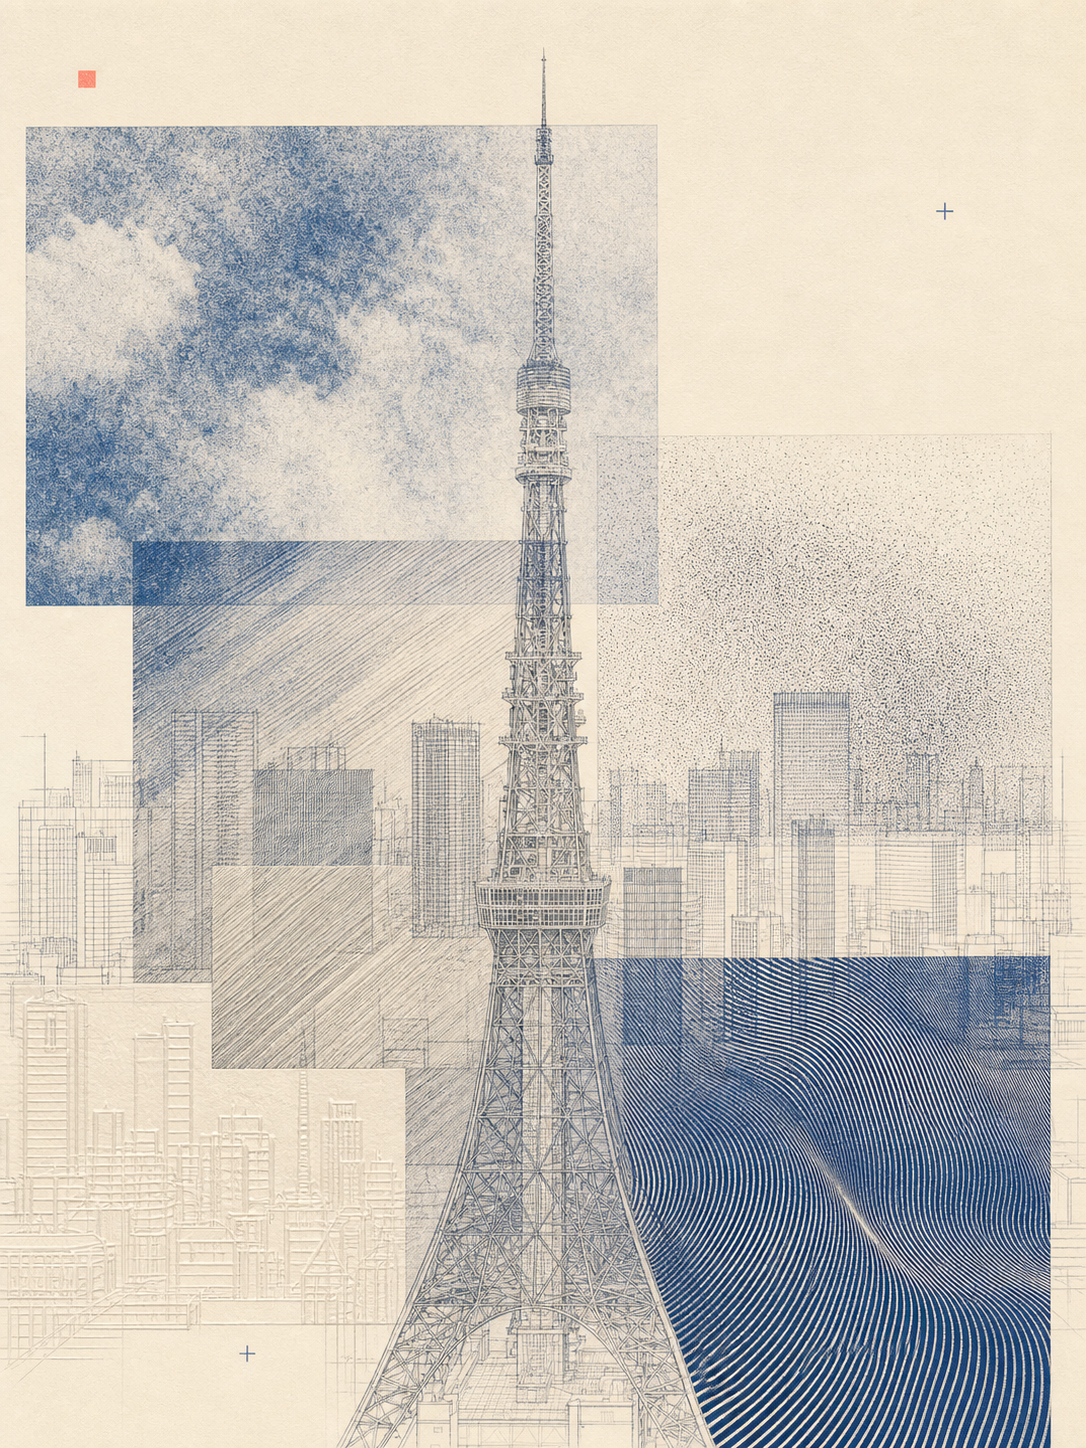
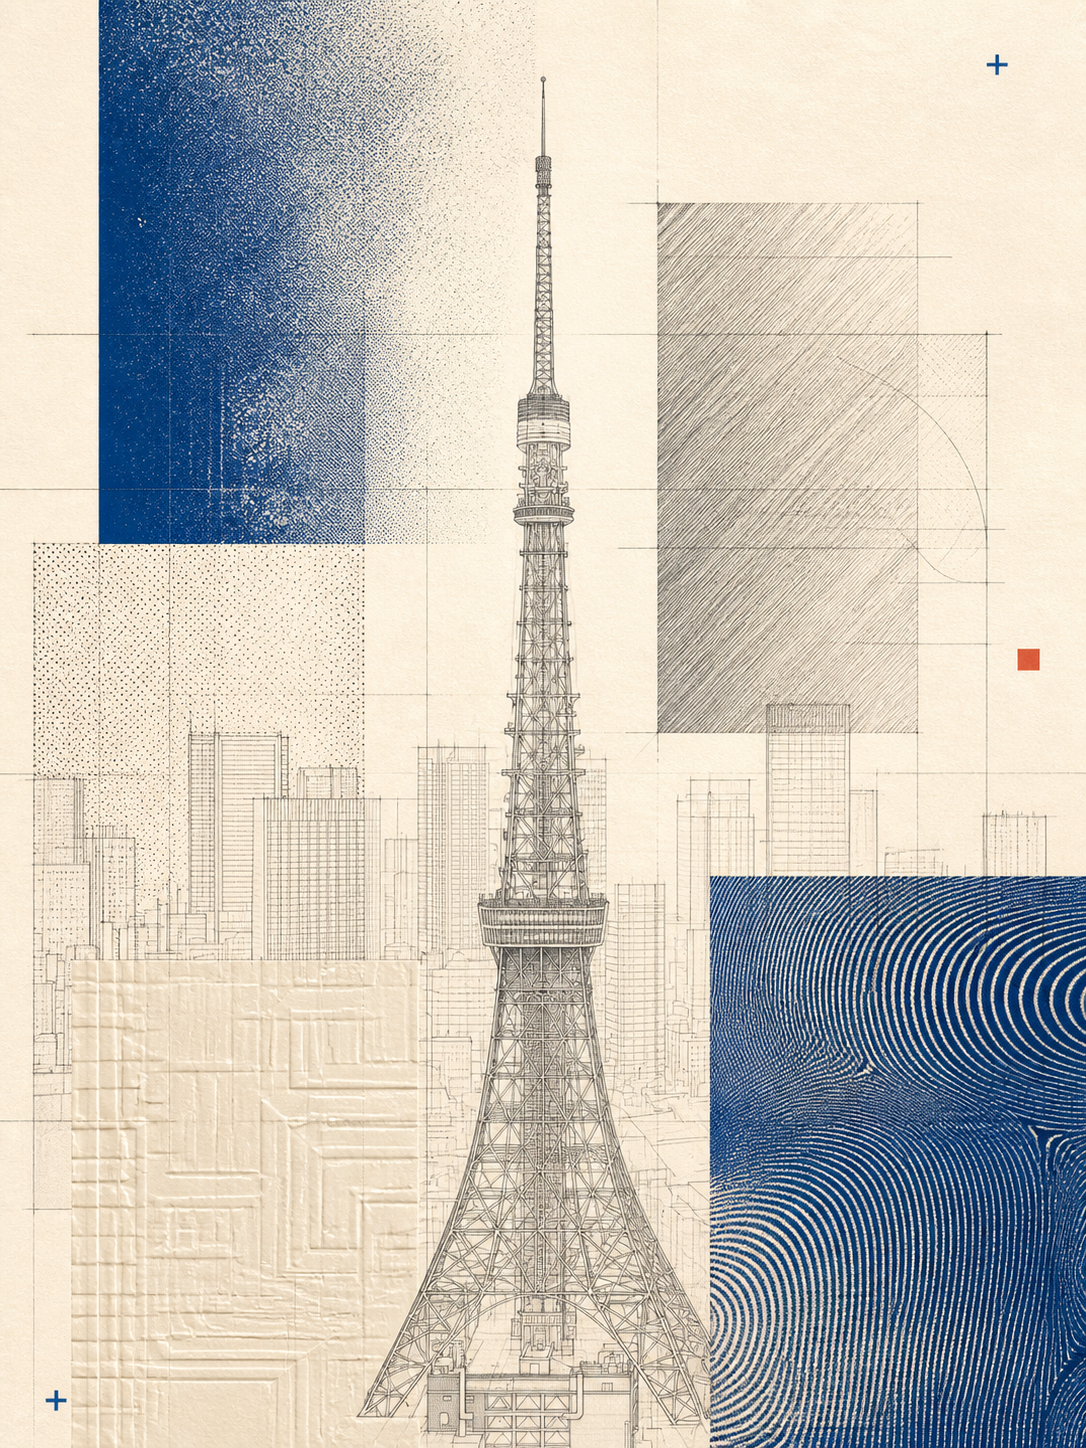
feat: refresh constrained full reference set

diff --git a/references/style-catalog.html b/references/style-catalog.html
@@ -21,7 +21,7 @@
   <header><h1>OPTICAL<br>ZINE STYLES</h1><p>参考库分成两类：上图下设计的 1:1 分屏，以及东京铁塔全图。点击任一卡片可打开完整 3:4 参考图；参考图只供浏览，不参与生图输入。</p></header>
   <nav><a href="#split-1x1">1:1 分屏</a><a href="#tokyo-tower-full">东京铁塔 · 全图</a></nav>
   <section class="collection split" id="split-1x1"><div class="collection-head"><div><p class="eyebrow">Collection A · split 1:1</p><h2>上图摄影 / 下图设计</h2></div><p class="intro">用于明确要求上下 1:1 的变体。卡片缩略图聚焦下半设计区，点击后查看完整分屏。</p></div><div class="grid" data-gallery="split"></div></section>
-  <section class="collection full" id="tokyo-tower-full"><div class="collection-head"><div><p class="eyebrow">Collection B · Tokyo Tower full design</p><h2>东京铁塔 / 全图设计</h2></div><p class="intro">S01–S11 全部以同一张东京铁塔原图为语义与结构源，整页完成设计转译，不保留摄影窗口，也不使用上下分屏。</p></div><div class="grid" data-gallery="full"></div></section>
+  <section class="collection full" id="tokyo-tower-full"><div class="collection-head"><div><p class="eyebrow">Collection B · Tokyo Tower full design</p><h2>东京铁塔 / 全图设计</h2></div><p class="intro">S01–S11 全部以同一张东京铁塔原图为语义与结构源，并按 3–6 个可见载体、最多两组聚类、主体连续通道与至少 40% 留白的统一约束重新生成。</p></div><div class="grid" data-gallery="full"></div></section>
   <div class="note"><strong>S08 次级参考：</strong><a href="../assets/style-references/secondary/R-S08-B-material-tectonics-aesthetic-only-2x3.png">R-S08-B</a> 仅用于审美方向，原图为 2:3，不得作为 3:4 交付验收样本。</div>
 </main>
 <script>
@@ -41,9 +41,8 @@
   function card(style, mode) {
     const split = mode === "split";
     const path = `../assets/style-references/${split ? "split-1x1" : "tokyo-tower-full"}/R-${style.id}-A-${style.slug}-${split ? "split" : "full"}.png`;
-    const accepted = split || style.id !== "S06";
-    const ref = split ? "split 1:1 study" : accepted ? "Tokyo Tower · full design" : "Tokyo Tower · full candidate · unaccepted 1086x1449";
-    const level = accepted ? style.level : "未验收";
+    const ref = split ? "split 1:1 study" : "Tokyo Tower · full design · exact 3:4";
+    const level = style.level;
     return `<article class="card"><a class="media" href="${path}"><img src="${path}" alt="${style.id} ${style.name} ${ref}"></a><div class="copy"><div class="top"><h3>${style.id}</h3><span class="level">${level}</span></div><p class="name">${style.name}</p><p class="fit">${style.fit}</p><p class="ref">R-${style.id}-A · ${ref}</p></div></article>`;
   }
   document.querySelector('[data-gallery="split"]').innerHTML = styles.map(style => card(style, "split")).join("");

diff --git a/README_EN.md b/README_EN.md
@@ -28,7 +28,7 @@ It reads the source image's subject structure, perspective, materials, atmospher
     <th width="50%">Optional Split 1:1 · S08</th>
   </tr>
   <tr>
-    <td><img src="assets/examples/E01-FULL-S08-material-tectonics.png" alt="S08 full design example"></td>
+    <td><img src="assets/style-references/tokyo-tower-full/R-S08-A-material-tectonics-full.png" alt="S08 full design example"></td>
     <td><img src="assets/examples/E01-SPLIT-S08-material-tectonics.png" alt="S08 split example"></td>
   </tr>
   <tr>
@@ -61,7 +61,7 @@ This Skill does not produce UI cards, generic filters, or template collages. It 
 
 ## 11 Style Programs
 
-This page uses Full Design results from the same Tokyo Tower source image, making the visual differences between all 11 programs easy to compare. Click any image to open the full-resolution result; the [local style catalog](references/style-catalog.html) also provides `1:1 split` references for the same programs, and contains only these two reference families.
+This page uses newly generated Full Design results from the same Tokyo Tower source image, making the visual differences between all 11 programs easy to compare. Every current full reference follows the same carrier contract: 3–6 visible optical carriers, no more than two clusters, a continuous subject corridor, and at least 40% quiet paper. Click any image to open the full-resolution result; the [local style catalog](references/style-catalog.html) also provides `1:1 split` references for the same programs, and contains only these two reference families.
 
 <table>
   <tr>
